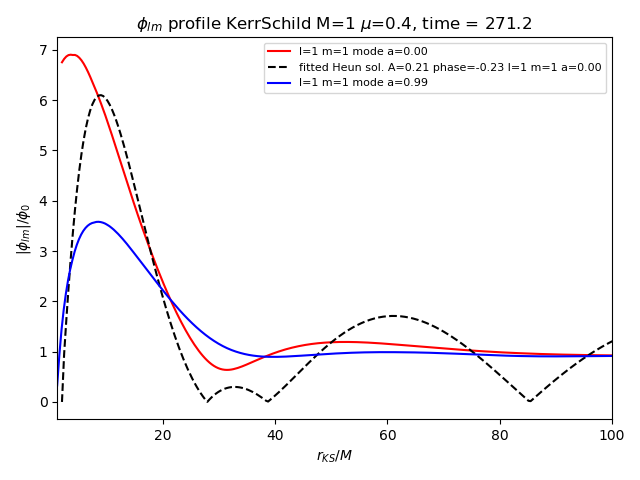
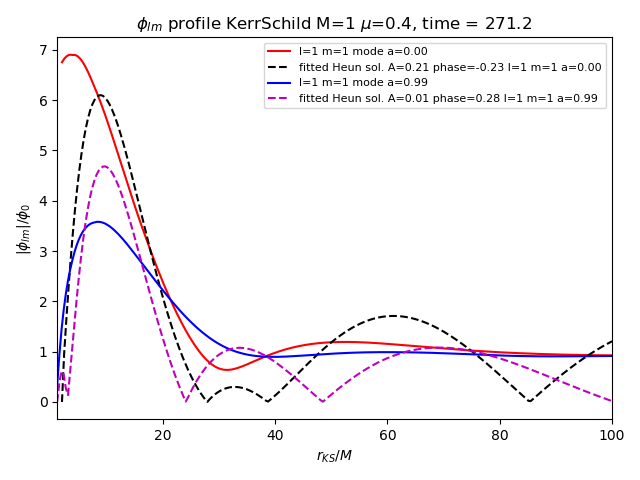
new plot

diff --git a/Analysis/scripts/plot_radial_profile_phi_KS_compare_lm_Ylm_vs_Heun.py b/Analysis/scripts/plot_radial_profile_phi_KS_compare_lm_Ylm_vs_Heun.py
@@ -21,6 +21,7 @@ M = 1
 phi0 = 0.1
 lin_or_log = True
 colours = ["r", "b", "g", "c", "m", "y", "k"]
+colours2 = ["k", "m"]
 styles = ["-", "--"]
 time = 0
 
@@ -77,7 +78,7 @@ for i in range(0, len(a_list)):
 			y = phi/phi0
 		plt.plot(x, y, colours[i] + styles[j], label="l={:d} m={:d} mode a={:.2f}".format(l, m, a))
 		### fit stationary solution to the a=0.99 case 
-		if (a==0.0):
+		if (True):
 			def Stationary_sol_KS_fit(r, A, phase):
 				print("testing A={:.2f} phase={:.2f}".format(A, phase))
 				return Stationary_sol_KS(r, A, a, l, m, phase, True)
@@ -89,7 +90,7 @@ for i in range(0, len(a_list)):
         			y = np.log10(phi_fitted/phi0)
 			else:
         			y = phi_fitted/phi0
-			plt.plot(x, y, "k--", label="fitted Heun sol. A={:.2f} phase={:.2f} l={:d} m={:d} a={:.2f}".format(A, phase, l, m, a))	
+			plt.plot(x, y, colours2[i] + "--", label="fitted Heun sol. A={:.2f} phase={:.2f} l={:d} m={:d} a={:.2f}".format(A, phase, l, m, a))	
 plt.legend(fontsize=8)
 if log_y:
 	plt.ylabel("$\\log_{10}(\\phi_{lm}/\\phi_0)$")
